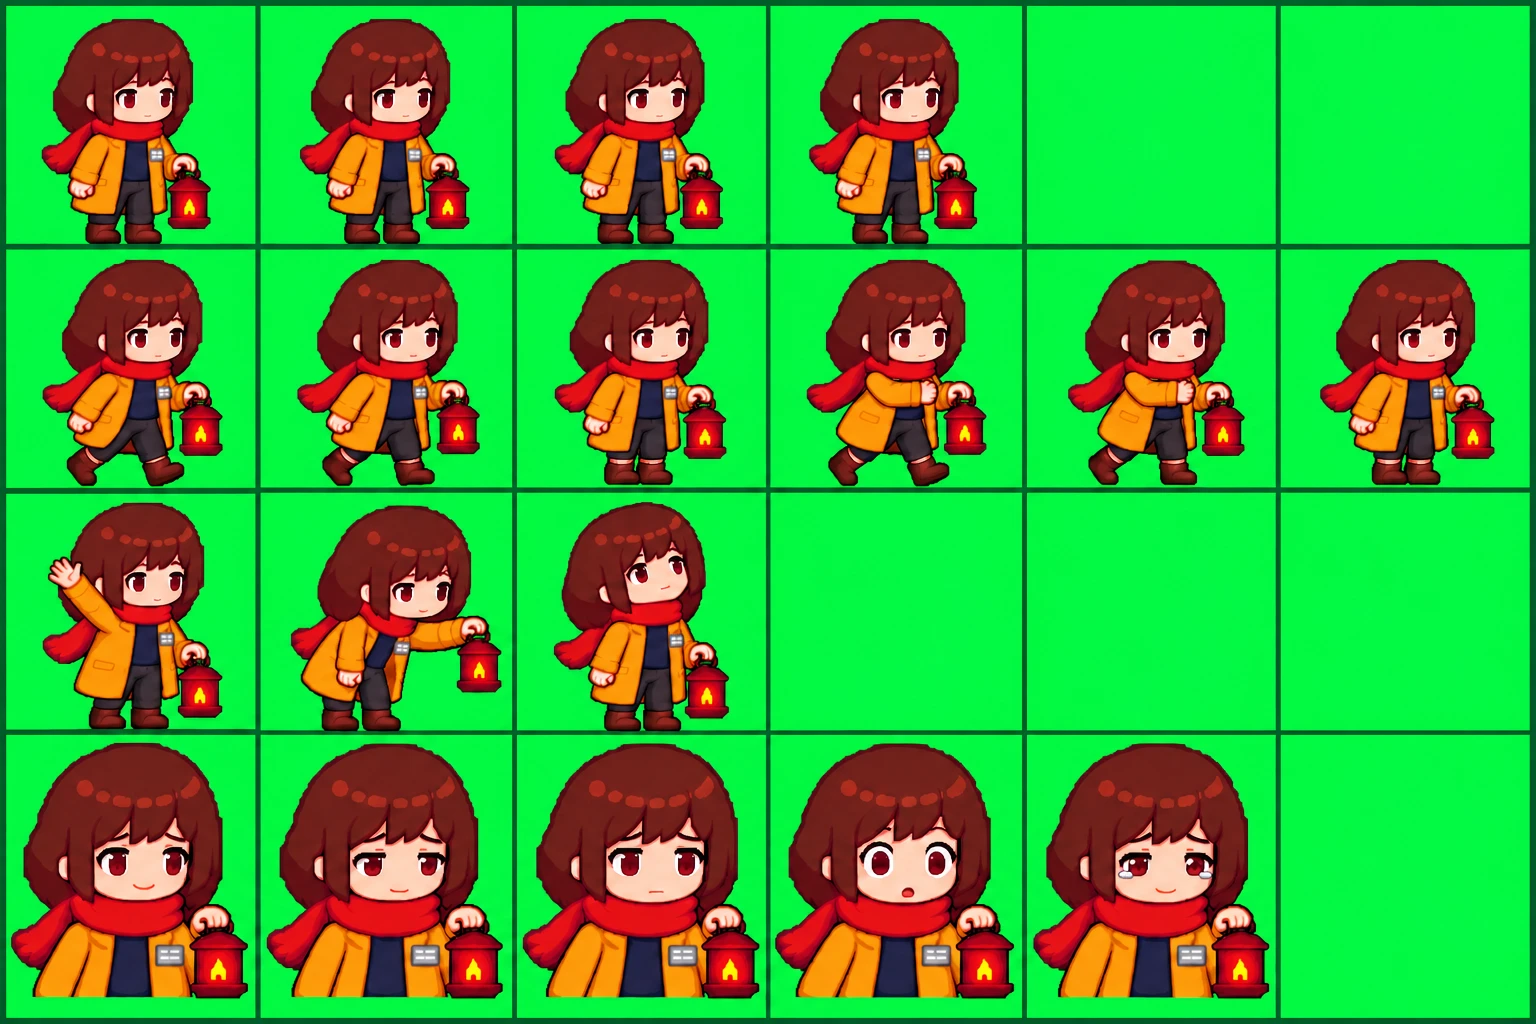
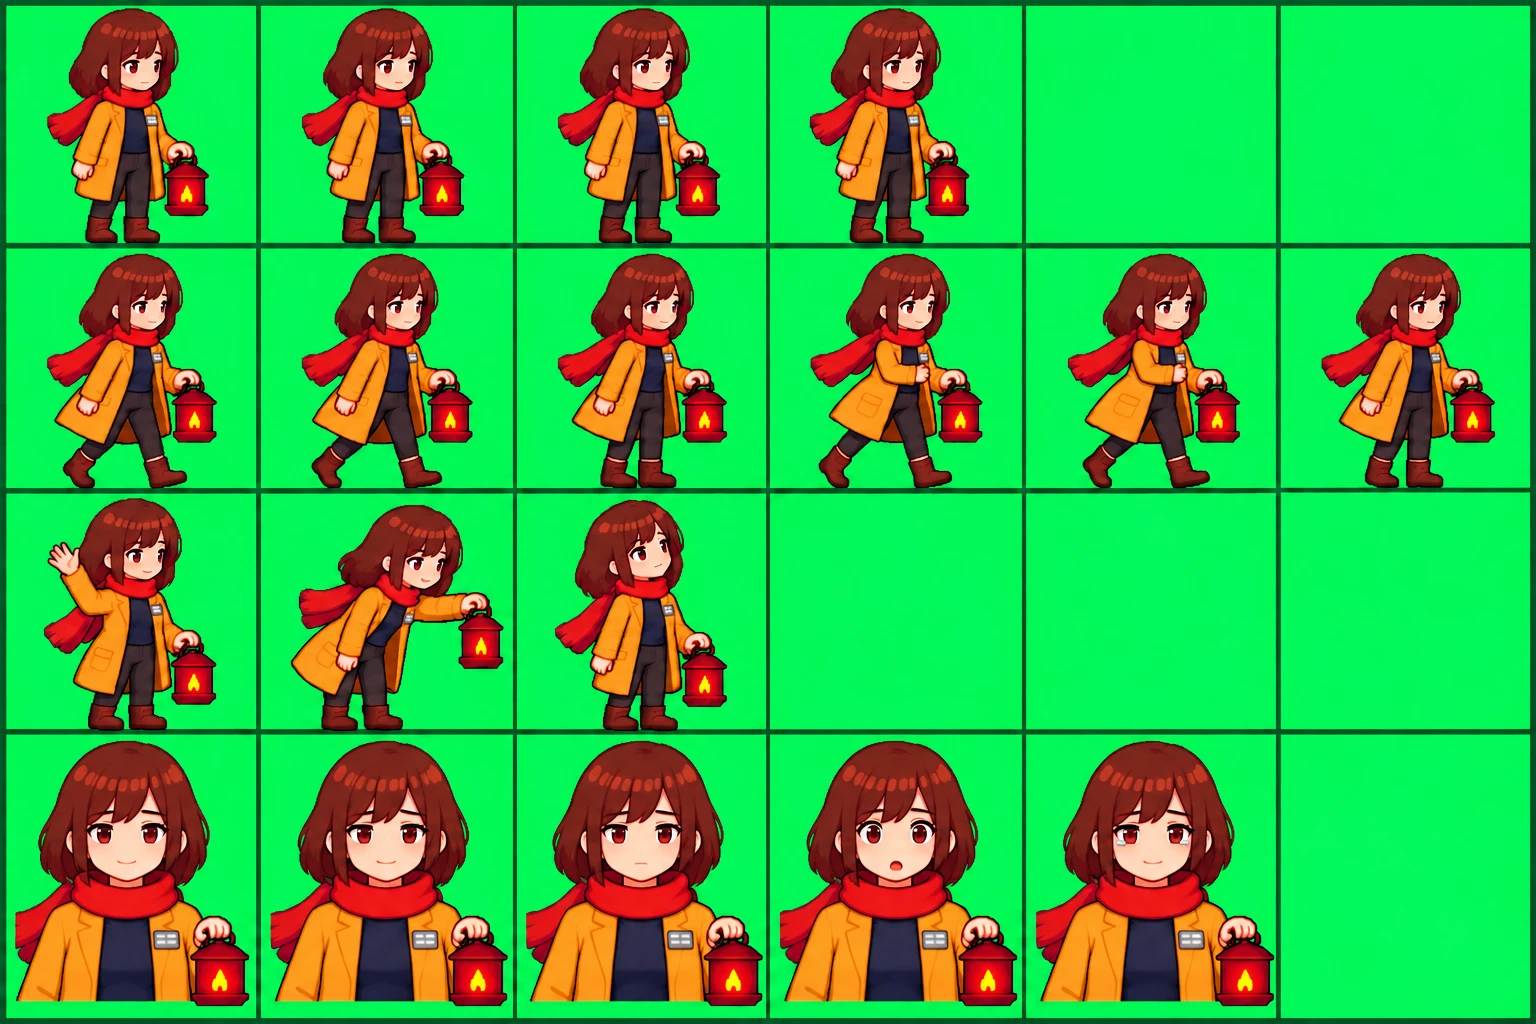
Replace teacher sheet with adult proportions, add sleeping kids request
Claude-Session: https://claude.ai/code/session_011kdEDmLdS2a4uGbf8UfqNv

diff --git a/docs/art/잠든친구들_스프라이트_요청.md b/docs/art/잠든친구들_스프라이트_요청.md
@@ -1,0 +1,47 @@
+# 잠든 친구들 스프라이트 시트 요청
+
+픽셀 아트 게임 「별지기의 마지막 밤」의 **잠든 캠프 친구들**을 그려 주세요.
+**첨부한 플레이어 시트와 같은 그림체, 같은 픽셀 크기**로 그려야 합니다.
+
+---
+
+## 1. 설정
+
+- 플레이어와 함께 겨울 별 캠프에 온 친구 4명 (초등학생, 플레이어와 같은 나이와 키)
+- 이상한 밤이 시작되자 **강의실 책상에 엎드려 깊이 잠들어** 아무리 흔들어도 깨지 않음
+- 모두 겨울옷 차림, 가슴에 **캠프 이름표**(흰 네모, 글씨는 흐린 선만)
+- 4명이 한눈에 구분되게 머리 모양과 옷 색을 다르게
+
+| 친구 | 머리 | 옷 |
+|---|---|---|
+| 1 | 짧은 까까머리 | 파란 패딩 |
+| 2 | 양 갈래로 묶은 머리 | 분홍 패딩 |
+| 3 | 동그란 안경, 짧은 머리 | 초록 니트 조끼와 흰 셔츠 |
+| 4 | 털모자(방울 달림) | 보라 패딩 |
+
+---
+
+## 2. 시트 배치 (3열 × 4행)
+
+- **한 줄이 친구 한 명**입니다. 모든 칸에 **작은 나무 책상과 의자까지 함께** 그려 주세요.
+- 모든 칸에서 오른쪽을 보고 앉은 옆모습(3/4 측면). 팔을 베고 책상에 엎드림
+
+| 열 | 내용 |
+|---|---|
+| 1 | 잠든 모습 (숨을 들이쉼, 등이 1픽셀 올라감) |
+| 2 | 잠든 모습 (숨을 내쉼, 등이 1픽셀 내려감) |
+| 3 | 잠꼬대: 고개를 살짝 돌리고 입을 벌림, 눈은 감은 채 |
+
+- 책상과 의자의 크기, 위치, 바닥 높이는 **모든 칸에서 똑같이** (사람만 움직임)
+- 책상 위에 작은 별자리 공책 하나 (친구마다 색 다르게)
+
+---
+
+## 3. 공통 규칙
+
+- 파일: **PNG**
+- 배경: **단색 #00FF00** 하나만. 그림자, 빛 번짐, "Zzz" 글자나 효과 없이 (Zzz는 게임이 그림)
+- 모든 칸 같은 크기, 의자 다리 끝(바닥)이 모든 칸에서 같은 높이
+- 바닥과 칸 아래 테두리 사이에 칸 높이의 약 5% 여백
+- 얼굴 피부는 깨끗하게 (홍조는 연한 분홍 작은 점만, 얼굴에 어두운 선 없이)
+- 짙은 색 외곽선, 2~3단계 음영, 빛 방향은 왼쪽 위
